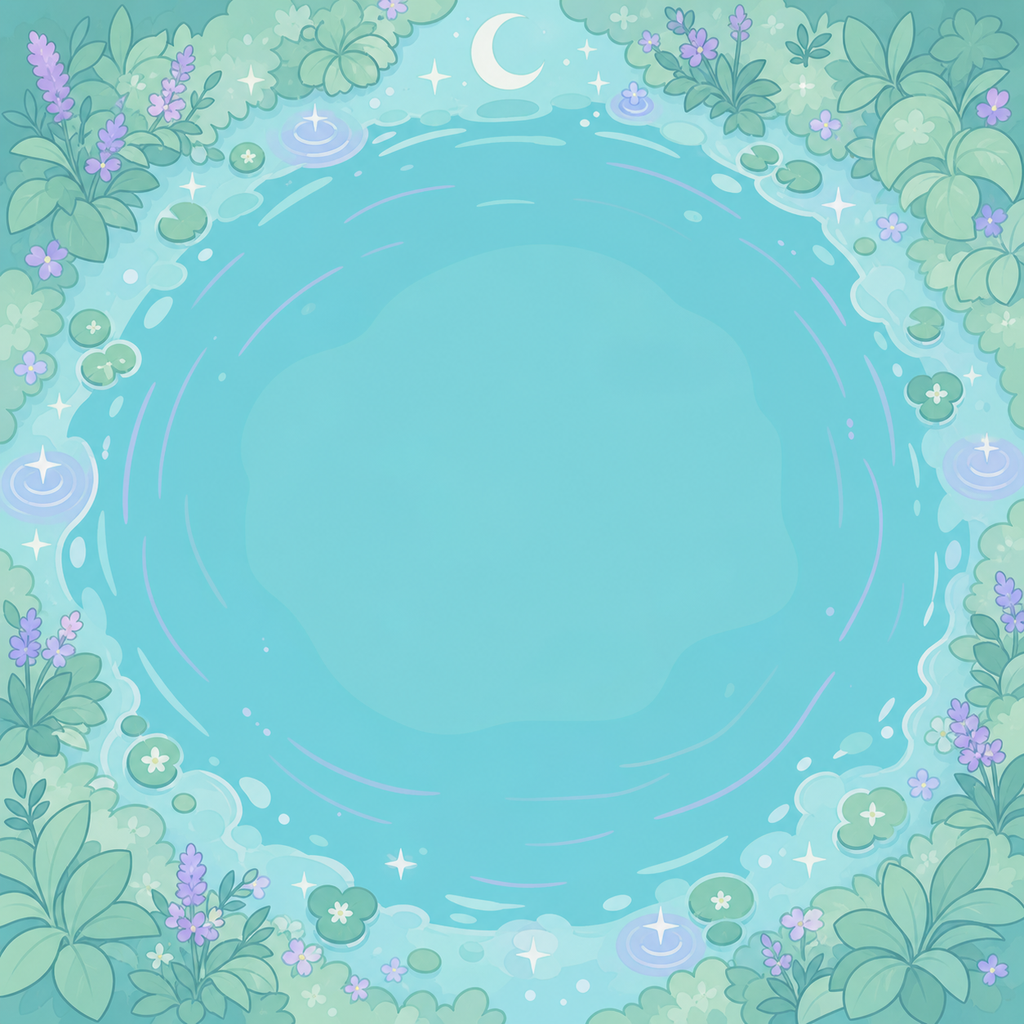
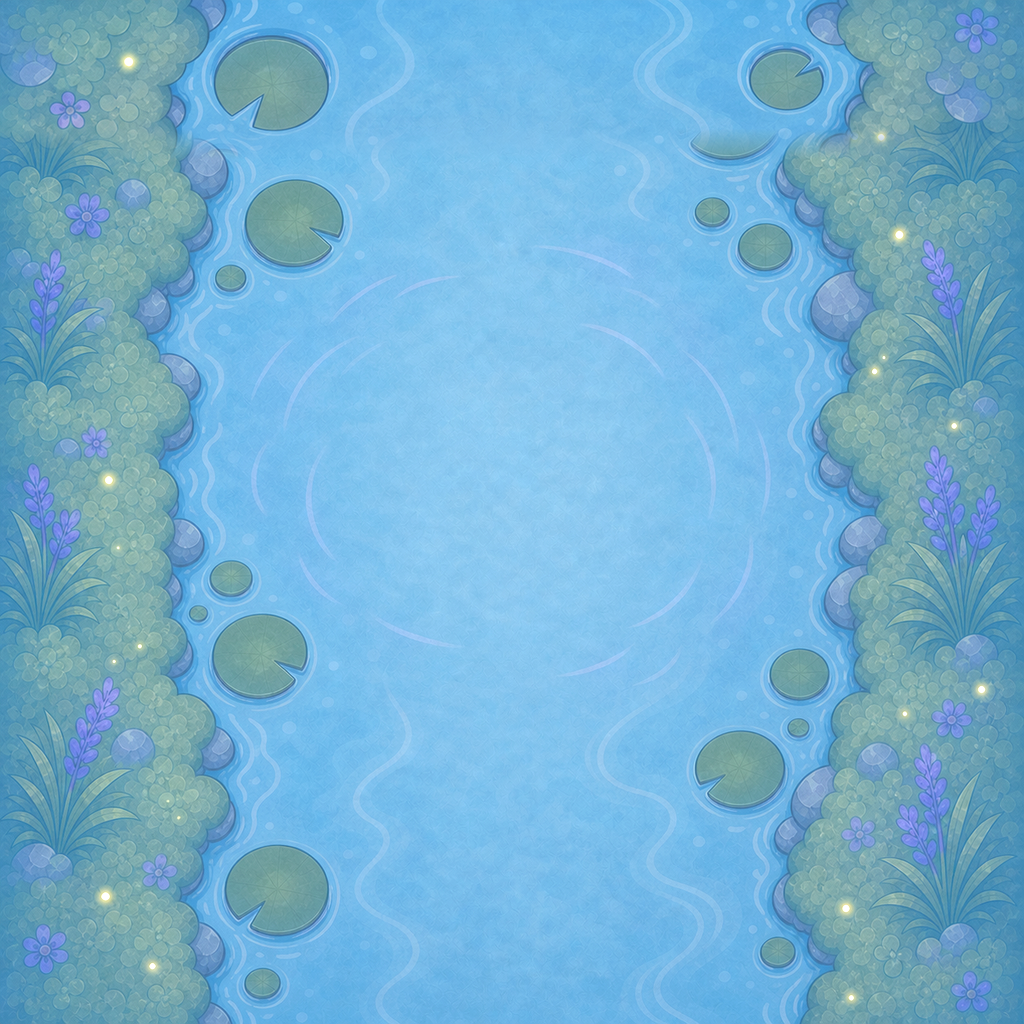
art(fairy): harmonize continuous pond textures

diff --git a/tools/process_fairy_background_flow.py b/tools/process_fairy_background_flow.py
@@ -1,0 +1,114 @@
+#!/usr/bin/env python3
+"""Build the three continuous Fairy Pond background plates.
+
+The V3 image-generation masters share one authored texture language.  This
+finishing pass keeps their phase lighting gradual and crossfades the horizontal
+join bands so the three adjacent Godot floor planes read as one long pond.
+
+Usage:
+	python tools/process_fairy_background_flow.py
+"""
+
+from __future__ import annotations
+
+from pathlib import Path
+
+from PIL import Image, ImageEnhance, ImageOps, ImageStat
+
+
+ROOT = Path(__file__).resolve().parents[1]
+SOURCE_DIR = ROOT / "assets_src" / "fairy_v3" / "concepts"
+RUNTIME_DIR = ROOT / "assets" / "fairy"
+EDGE = 1024
+SEAM_HOLD = 128
+SEAM_BLEND = 32
+COMMON_TINT = (116, 181, 197)
+
+PLATES = [
+	("background_dawn_master.png", "pond_dawn.png", 182.0, 0.90),
+	("background_twilight_continuation.png", "pond_twilight.png", 170.0, 0.84),
+	("background_boss_continuation.png", "pond_boss_clearing.png", 166.0, 0.84),
+]
+
+
+def _mean_luminance(image: Image.Image) -> float:
+	r, g, b = ImageStat.Stat(image.convert("RGB")).mean
+	return 0.2126 * r + 0.7152 * g + 0.0722 * b
+
+
+def _match_luminance(image: Image.Image, target: float) -> Image.Image:
+	result = image
+	for _step in range(3):
+		current = _mean_luminance(result)
+		if current <= 0.0:
+			break
+		result = ImageEnhance.Brightness(result).enhance(target / current)
+	return result
+
+
+def _prepare(source: Path, target_luminance: float, saturation: float) -> Image.Image:
+	image = Image.open(source).convert("RGB")
+	image = image.resize((EDGE, EDGE), Image.Resampling.LANCZOS)
+	# Keep normalized, ungraded generated masters in the repo.  The original
+	# full-size outputs remain in the Codex generated-image store.
+	image.save(source, format="PNG", optimize=True)
+	image = ImageEnhance.Color(image).enhance(saturation)
+	tint = Image.new("RGB", image.size, COMMON_TINT)
+	image = Image.blend(image, tint, 0.06)
+	return _match_luminance(image, target_luminance)
+
+
+def _ramp_palette(continuation: Image.Image, reference: Image.Image) -> Image.Image:
+	continuation_mean = ImageStat.Stat(continuation).mean
+	reference_mean = ImageStat.Stat(reference).mean
+	target_scale = [reference_mean[index] / max(1.0, continuation_mean[index]) for index in range(3)]
+	result = Image.new("RGB", continuation.size)
+	for row_index in range(continuation.height):
+		t = row_index / float(continuation.height - 1)
+		t = t * t * (3.0 - 2.0 * t)
+		scales = [1.0 + (target_scale[index] - 1.0) * t for index in range(3)]
+		luts = [[min(255, round(value * scale)) for value in range(256)] for scale in scales]
+		row = continuation.crop((0, row_index, continuation.width, row_index + 1))
+		result.paste(row.point(luts[0] + luts[1] + luts[2]), (0, row_index))
+	return result
+
+
+def _join_pair(first: Image.Image, second: Image.Image) -> tuple[Image.Image, Image.Image]:
+	width, height = first.size
+	continuation_height = SEAM_HOLD + SEAM_BLEND
+	# Mirror the preceding edge across the plane join.  The first row of the
+	# next plate therefore exactly matches the last row of the previous plate,
+	# and bank/ripple shapes remain crisp instead of becoming a double exposure.
+	continuation = ImageOps.flip(first.crop((0, height - continuation_height, width, height)))
+	reference = second.crop((0, 0, width, continuation_height))
+	continuation = _ramp_palette(continuation, reference)
+	joined_second = second.copy()
+	joined_second.paste(continuation.crop((0, 0, width, SEAM_HOLD)), (0, 0))
+	original_blend = second.crop((0, SEAM_HOLD, width, continuation_height))
+	continued_blend = continuation.crop((0, SEAM_HOLD, width, continuation_height))
+	mask = Image.new("L", (1, SEAM_BLEND))
+	mask.putdata([round(255.0 * row / float(SEAM_BLEND - 1)) for row in range(SEAM_BLEND)])
+	mask = mask.resize((width, SEAM_BLEND), Image.Resampling.NEAREST)
+	transition = Image.composite(original_blend, continued_blend, mask)
+	joined_second.paste(transition, (0, SEAM_HOLD))
+	return first, joined_second
+
+
+def main() -> None:
+	images: list[Image.Image] = []
+	for source_name, _target_name, luminance, saturation in PLATES:
+		source = SOURCE_DIR / source_name
+		if not source.exists():
+			raise FileNotFoundError(source)
+		images.append(_prepare(source, luminance, saturation))
+	images[0], images[1] = _join_pair(images[0], images[1])
+	images[1], images[2] = _join_pair(images[1], images[2])
+	RUNTIME_DIR.mkdir(parents=True, exist_ok=True)
+	for image, (_source_name, target_name, _luminance, _saturation) in zip(images, PLATES):
+		target = RUNTIME_DIR / target_name
+		image.save(target, format="PNG", optimize=True)
+		print(f"wrote {target.relative_to(ROOT)} luminance={_mean_luminance(image):.2f}")
+
+
+if __name__ == "__main__":
+	main()

diff --git a/tools/audit_fairy_art_v2.py b/tools/audit_fairy_art_v2.py
@@ -1,13 +1,14 @@
 #!/usr/bin/env python3
-"""Static texture and alpha QA for Fairy Pond V2 art."""
+"""Static texture, transition, alpha, and GLB QA for Fairy Pond art."""
 
 from __future__ import annotations
 
 import json
+import math
 import struct
 from pathlib import Path
 
-from PIL import Image, ImageDraw
+from PIL import Image, ImageChops, ImageDraw, ImageStat
 
 
 ROOT = Path(__file__).resolve().parents[1]
@@ -28,6 +29,16 @@ SUBJECTS = [
 	"boss_bloom.png",
 ]
 MODELS = [Path(name).with_suffix(".glb").name for name in SUBJECTS]
+
+
+def _mean_luminance(image: Image.Image) -> float:
+	r, g, b = ImageStat.Stat(image.convert("RGB")).mean
+	return 0.2126 * r + 0.7152 * g + 0.0722 * b
+
+
+def _mean_rgb(image: Image.Image) -> tuple[float, float, float]:
+	r, g, b = ImageStat.Stat(image.convert("RGB")).mean
+	return r, g, b
 
 
 def _audit_glb(path: Path) -> tuple[bool, str]:
@@ -67,6 +78,7 @@ def _audit_glb(path: Path) -> tuple[bool, str]:
 def main() -> None:
 	bad = 0
 	thumbs: list[tuple[str, Image.Image]] = []
+	background_images: list[tuple[str, Image.Image]] = []
 	for name in BACKGROUNDS + SUBJECTS:
 		path = (SUBJECT_ART if name in SUBJECTS else ART) / name
 		if not path.exists():
@@ -84,7 +96,8 @@ def main() -> None:
 			if any(corners):
 				print(f"FAIL opaque corner {name}: {corners}")
 				bad += 1
-			coverage = sum(1 for value in alpha.get_flattened_data() if value > 12) / float(image.width * image.height)
+			alpha_values = alpha.get_flattened_data() if hasattr(alpha, "get_flattened_data") else alpha.getdata()
+			coverage = sum(1 for value in alpha_values if value > 12) / float(image.width * image.height)
 			if not 0.08 <= coverage <= 0.78:
 				print(f"FAIL implausible coverage {name}: {coverage:.3f}")
 				bad += 1
@@ -94,8 +107,12 @@ def main() -> None:
 			checker.alpha_composite(image)
 			preview = checker.convert("RGB")
 		else:
+			if image.size != (1024, 1024) or image.mode != "RGB":
+				print(f"FAIL background contract {name}: size={image.size} mode={image.mode}")
+				bad += 1
 			print(f"OK {name}: {image.size[0]}x{image.size[1]} {image.mode}")
 			preview = image.convert("RGB")
+			background_images.append((name, preview.copy()))
 		preview.thumbnail((256, 256), Image.Resampling.LANCZOS)
 		thumbs.append((name, preview.copy()))
 
@@ -109,6 +126,25 @@ def main() -> None:
 		y = (index // cols) * cell_h
 		sheet.paste(preview, (x, y))
 		draw.text(((index % cols) * cell_w + 8, y + 262), name, fill=(34, 46, 68))
+	for index in range(len(background_images) - 1):
+		name_a, image_a = background_images[index]
+		name_b, image_b = background_images[index + 1]
+		luminance_a = _mean_luminance(image_a)
+		luminance_b = _mean_luminance(image_b)
+		luminance_delta = abs(luminance_a - luminance_b)
+		rgb_a = _mean_rgb(image_a)
+		rgb_b = _mean_rgb(image_b)
+		palette_delta = math.sqrt(sum((a - b) ** 2 for a, b in zip(rgb_a, rgb_b)))
+		edge_a = image_a.crop((0, image_a.height - 1, image_a.width, image_a.height))
+		edge_b = image_b.crop((0, 0, image_b.width, 1))
+		seam_delta = sum(ImageStat.Stat(ImageChops.difference(edge_a, edge_b)).mean) / 3.0
+		ok = luminance_delta <= 16.0 and palette_delta <= 48.0 and seam_delta <= 2.0
+		print(
+			f"{'OK' if ok else 'FAIL'} flow {name_a}->{name_b}: "
+			f"luminance_delta={luminance_delta:.2f} palette_delta={palette_delta:.2f} seam_delta={seam_delta:.2f}"
+		)
+		if not ok:
+			bad += 1
 	OUT.parent.mkdir(parents=True, exist_ok=True)
 	sheet.save(OUT, format="PNG", optimize=True)
 	print(f"contact sheet: {OUT}")

diff --git a/tools/process_fairy_art_v2.py b/tools/process_fairy_art_v2.py
@@ -1,10 +1,10 @@
 #!/usr/bin/env python3
 """Normalize generated Fairy Pond art for Godot Mobile.
 
-The image-generation masters are kept under assets_src/fairy_v2/concepts.
-This script creates the <=1024px runtime textures after chroma removal.  It is
-deliberately independent of Blender so texture preparation is reproducible in
-the lightweight CI/import environment.
+The V2 subject masters are kept under assets_src/fairy_v2/concepts; the V3
+continuous background masters live under assets_src/fairy_v3/concepts.  This
+script creates the <=1024px runtime textures after chroma removal and delegates
+the three pond plates to process_fairy_background_flow.py.
 
 Usage:
     python tools/process_fairy_art_v2.py
@@ -17,6 +17,8 @@ from pathlib import Path
 
 from PIL import Image
 
+from process_fairy_background_flow import main as build_background_flow
+
 
 ROOT = Path(__file__).resolve().parents[1]
 CONCEPT_DIR = ROOT / "assets_src" / "fairy_v2" / "concepts"
@@ -25,12 +27,6 @@ RUNTIME_DIR = ROOT / "assets" / "fairy"
 SUBJECT_DIR = ROOT / "assets_src" / "fairy_v2" / "runtime_textures"
 MAX_EDGE = 1024
 SUBJECT_EDGE = 960
-
-BACKGROUNDS = {
-	"background_dawn.png": "pond_dawn.png",
-	"background_twilight.png": "pond_twilight.png",
-	"background_clearing.png": "pond_boss_clearing.png",
-}
 
 SUBJECTS = {
 	"bug_jewel.png": "bug_jewel.png",
@@ -61,13 +57,6 @@ def _normalize_concepts() -> None:
 		image.save(source, format="PNG", optimize=True)
 
 
-def _save_background(source: Path, target: Path) -> None:
-	image = Image.open(source).convert("RGB")
-	image = _resize(image, MAX_EDGE)
-	target.parent.mkdir(parents=True, exist_ok=True)
-	image.save(target, format="PNG", optimize=True)
-
-
 def _save_subject(source: Path, target: Path) -> None:
 	image = Image.open(source).convert("RGBA")
 	bounds = image.getchannel("A").getbbox()
@@ -91,11 +80,9 @@ def main() -> None:
 	if args.concepts_only:
 		print(f"normalized concept masters in {CONCEPT_DIR}")
 		return
-	for source_name, target_name in BACKGROUNDS.items():
-		_save_background(CONCEPT_DIR / source_name, RUNTIME_DIR / target_name)
+	build_background_flow()
 	for source_name, target_name in SUBJECTS.items():
 		_save_subject(KEYED_DIR / source_name, SUBJECT_DIR / target_name)
-	print(f"wrote {len(BACKGROUNDS)} pond plates to {RUNTIME_DIR}")
 	print(f"wrote {len(SUBJECTS)} relief masters to {SUBJECT_DIR}")
 
 

diff --git a/assets_src/fairy_v3/GENERATED_ART.md b/assets_src/fairy_v3/GENERATED_ART.md
@@ -1,0 +1,47 @@
+# Fairy Pond V3 continuous backgrounds
+
+The three background masters were generated with the built-in OpenAI image
+generation tool on 2026-07-22. They replace only the Fairy Pond floor plates;
+the V2 bugs, leaf shield, and five flower-growth reliefs remain unchanged. No
+protected book art, family voice, or friend source was used or modified.
+
+The full-size generated files remain in the Codex generated-image store. The
+registered project masters in `concepts/` are normalized to 1024x1024. Runtime
+plates are rebuilt by `tools/process_fairy_background_flow.py`.
+
+## Shared texture contract
+
+- Orthographic top-down pond corridor with an open central flight lane.
+- One consistent fine-paper watercolor grain, thin indigo-blue contour weight,
+  rounded stone scale, sea-glass lily pads, scalloped moss banks, and lavender
+  wetland flowers.
+- Medium aqua, mint, moss, lavender, and periwinkle palette; no separate
+  vignette, moon icon, decorative frame, characters, text, or watermark.
+- Compatible horizontal bank edges so the three 3D floor plates read as one
+  continuous environment.
+
+## Prompt set
+
+1. `background_dawn_master.png`: establish the master storybook texture family
+   at calm magical dawn, balancing the pale V2 dawn and saturated V2 twilight;
+   preserve a quiet central 55 percent and restrain lily-pad density.
+2. `background_twilight_continuation.png`: use the new dawn plate as the exact
+   style/material reference; continue its corridor and shift only gently into
+   friendly blue-hour light with sparse warm firefly points at the banks.
+3. `background_boss_continuation.png`: use the new twilight plate as the exact
+   reference; continue the same pond and widen only the central water into a
+   readable boss pool with subtle lavender ripple arcs, without a circular
+   vignette or daylight reset.
+
+## Reproducible finishing pass
+
+`tools/process_fairy_background_flow.py` normalizes the sources to 1024px,
+reduces saturation toward one material family, adds a shared 6 percent aqua
+balance tint, and targets mean luminance 182 -> 170 -> 166. Each next plate
+begins with a crisp mirrored continuation of the previous shoreline; its color
+ramps toward the next phase before a narrow interior dissolve returns to the
+authored continuation. The resulting adjacent edge-row delta is zero.
+
+`tools/audit_fairy_art_v2.py` rejects a background sequence when an adjacent
+luminance jump exceeds 16, mean-palette distance exceeds 48, or edge seam mean
+error exceeds 2.

diff --git a/ASSET_LICENSES.md b/ASSET_LICENSES.md
@@ -182,8 +182,10 @@
 | assets_src/blender/art_pass35.blend, assets_src/blender/qa_art_pass35/*.png | Project-authored Blender source and QA renders for the pass-35 library | **Project-generated source/review art** | `tools/build_art_pass35.py` | Editable deterministic source plus one isolated render per GLB; generated 2026-07-16. |
 | assets/ship/Textures/colormap.png | Byte-identical project texture restored from `assets/terrain/up_shipwood_col.png` | **Project-generated derivative** | `assets/terrain/up_shipwood_col.png` | Restores a missing ship material dependency without modifying protected book art; restored 2026-07-16. |
 | backups/art_pre_pass35_2026-07-16/** | Byte-identical pre-pass runtime art and script snapshots from `origin/master` `021e235f` | **Same license as each mirrored source** | original repository paths; `backups/art_pre_pass35_2026-07-16/MANIFEST.md` | Reversal archive for every overwritten sprite, coral/rock/creature GLB, and affected art-routing script; created 2026-07-16. |
-| assets_src/fairy_v2/concepts/*.png | Original Fairy Pond V2 background, shadow-bug, leaf-shield, and five-state Fairy Flower masters generated with the built-in OpenAI image tool from `ART_STYLE_GUIDE.md` direction | **Project-generated art** | assets_src/fairy_v2/GENERATED_ART.md | twelve orthographic top-down masters; normalized to 1024px; no protected book, family voice, or friend source modified; generated 2026-07-16 |
-| assets/fairy/pond_*.png; assets_src/fairy_v2/runtime_textures/*.png | Fairy Pond V2 textures derived from the registered concept masters | **Project-generated art** | assets_src/fairy_v2/concepts/ | three exported RGB pond plates plus nine export-excluded RGBA relief-build masters; connected chroma removal, soft matte, despill, centered transparent padding; 1024x1024; generated 2026-07-16 |
+| assets_src/fairy_v2/concepts/*.png | Original Fairy Pond V2 background, shadow-bug, leaf-shield, and five-state Fairy Flower masters generated with the built-in OpenAI image tool from `ART_STYLE_GUIDE.md` direction | **Project-generated art** | assets_src/fairy_v2/GENERATED_ART.md | twelve orthographic top-down masters; normalized to 1024px; V2 background concepts retained as history after the V3 runtime replacement; no protected book, family voice, or friend source modified; generated 2026-07-16 |
+| assets_src/fairy_v2/runtime_textures/*.png | Fairy Pond V2 transparent relief-build textures derived from the registered subject concepts | **Project-generated art** | assets_src/fairy_v2/concepts/ | nine export-excluded RGBA masters; connected chroma removal, soft matte, despill, centered transparent padding; 1024x1024; generated 2026-07-16 |
+| assets_src/fairy_v3/concepts/*.png | Continuous Fairy Pond V3 background masters generated with the built-in OpenAI image tool, each continuation reference-locked to the previous plate | **Project-generated art** | assets_src/fairy_v3/GENERATED_ART.md | three orthographic top-down masters normalized to 1024x1024; shared watercolor grain, bank scale, contour weight, and restrained aqua/mint/lavender palette; no protected source modified; generated 2026-07-22 |
+| assets/fairy/pond_*.png | Fairy Pond V3 runtime floor textures derived from the registered continuous-background masters | **Project-generated art** | assets_src/fairy_v3/concepts/; tools/process_fairy_background_flow.py | three RGB 1024x1024 plates; luminance and saturation harmonization, shared aqua balance, crisp mirrored join continuations, and zero-delta adjoining edge rows; generated 2026-07-22 |
 | assets/fairy/models/*.glb | Blender-importable shallow relief items generated from the Fairy Pond V2 illustrated masters | **Project-generated art** | assets_src/fairy_v2/runtime_textures/*.png; tools/build_fairy_relief_glb.py | three shadow bugs, one leaf shield, and seed/sprout/bud/opening/bloom boss states; XZ overhead-camera contract; embedded unlit textures; dark-indigo boundary walls; 2,584-13,044 triangles; generated 2026-07-16 |
 | assets/full_texture_regen_2026-07-18/models/*.glb | Project-authored deterministic Blender geometry guided by `ART_STYLE_GUIDE.md` and the game-wide full-regeneration audit | **Project-generated art** | `tools/build_full_texture_regen.py`; `assets_src/blender/full_texture_regen_2026-07-18/full_texture_regen.blend` | 137 isolated, texture-free Mobile candidates with embedded matte materials; no runtime paths replaced; generated 2026-07-18 |
 | assets/full_texture_regen_2026-07-18/textures/*.png | OpenAI ChatGPT built-in image generation guided by the source-book style analysis and full-regeneration prompt contract | **Project-generated art** | `assets/full_texture_regen_2026-07-18/source_generations/accepted/`; `assets/full_texture_regen_2026-07-18/PROMPTS.md` | 30 reviewed isolated candidates plus one unscored R044 calm-ground development texture, all normalized to at most 1024 px; alpha cleanup, despill, and seam processing; no runtime paths replaced; generated and iterated 2026-07-18 |

diff --git a/assets_src/fairy_v2/GENERATED_ART.md b/assets_src/fairy_v2/GENERATED_ART.md
@@ -1,5 +1,9 @@
 # Fairy Pond V2 generated art
 
+The three V2 background concepts are retained as historical sources. Runtime
+pond plates were superseded by the continuous V3 texture family on 2026-07-22;
+the V2 bug, leaf-shield, and flower-growth masters remain current.
+
 The final game art was generated with the built-in OpenAI image-generation
 tool on 2026-07-16, then normalized by `tools/process_fairy_art_v2.py`.
 Chroma-key removal uses the installed Codex `remove_chroma_key.py` helper with

diff --git a/ART_3D_CONVERSION_MANIFEST.md b/ART_3D_CONVERSION_MANIFEST.md
@@ -34,7 +34,7 @@ intact.
 | P1 | Bush, flowers, trees, seed stages, coal, sun, and star | `assets/mg/*.png`, source in `assets_src/blender/low_score_batch_02.blend` | MOBILE_QA | Twenty-one Blender models feed touch-safe 2D renders; existing filenames preserve growth and placement contracts. |
 | P1 | Christmas ornaments | `assets/mg/orn1.png`-`orn5.png`, `xtree.png` | MOBILE_QA | Five independent ornament models/renders; the tree is now separate, empty, and has no baked topper. |
 | P1 | Kart checker and boost | `assets/kart/finish_banner.png`, `boost_ribbon.png` | MOBILE_QA | Runtime sprites preserve finish/ramp semantics. Decorated rock clusters were rejected as hazards because their stars and shells conflict with pickup language. |
-| P1 | Fairy Pond backgrounds, shadow bugs, leaf shield, and Fairy Flower growth sequence | `assets_src/fairy_v2/concepts/*.png`, runtime reliefs in `assets/fairy/models/*.glb` | MOBILE_QA | Three overhead pond plates and nine Blender-importable unlit reliefs are live. The boss now uses seed, sprout, closed bud, opening blossom, and giant full purple bloom states with matching leaves. Analytic hitboxes and forgiving phase timing are unchanged; `probe_fairy_art.gd` protects import, alpha, depth, and triangle budgets; Mobile phase screenshots remain the owner-review gate. |
+| P1 | Fairy Pond backgrounds, shadow bugs, leaf shield, and Fairy Flower growth sequence | V3 continuous backgrounds in `assets_src/fairy_v3/concepts/*.png`; V2 subject masters in `assets_src/fairy_v2/concepts/*.png`; runtime reliefs in `assets/fairy/models/*.glb` | MOBILE_QA | Three texture-harmonized overhead pond plates and nine Blender-importable unlit reliefs are live. Dawn, twilight, and boss water now share grain, bank scale, contour weight, palette, and zero-delta adjoining edge rows. The boss uses seed, sprout, closed bud, opening blossom, and giant full purple bloom states with matching leaves. Analytic hitboxes and forgiving timing are unchanged; `probe_fairy_art.gd` protects import/geometry budgets and `tools/audit_fairy_art_v2.py` protects phase luminance, palette, and seams; Mobile screenshots remain the owner-review gate. |
 | P2 | Tropical leaf/frond family | `assets/terrain/leaf.png` | MOBILE_QA | Approved broadleaf is live on crossed swaying cards. Additional fern/fan clumps remain optional 3D polish, not a score-2 blocker. |
 | P2 | Castle/furniture/park/ship raw kit surfaces | `ART_REMEDIATION_BATCH_03.md` material sheets and current GEN2 references | MODEL_PENDING | Shared trim vocabulary, rounded edges, matte paint, no photoreal PBR. |
 | P2 | Galaxy fruit/crystals/beetles | `ART_REMEDIATION_BATCH_03.md` candidates `012`, `013`, `029` | MODEL_PENDING | Retain distinct functional identity; use painted facet and shell materials rather than glossy generic pack skins. |